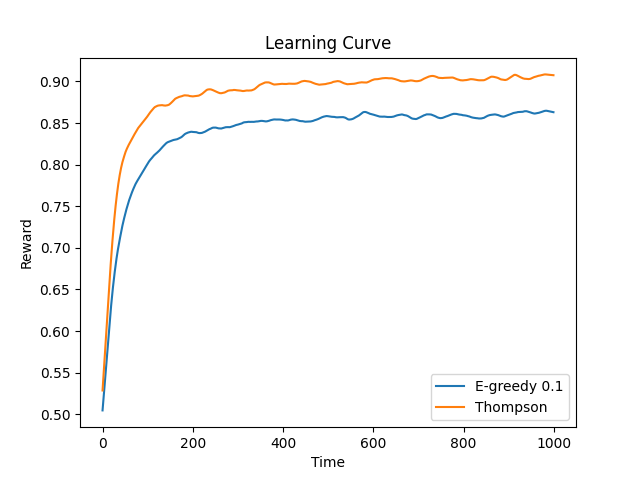
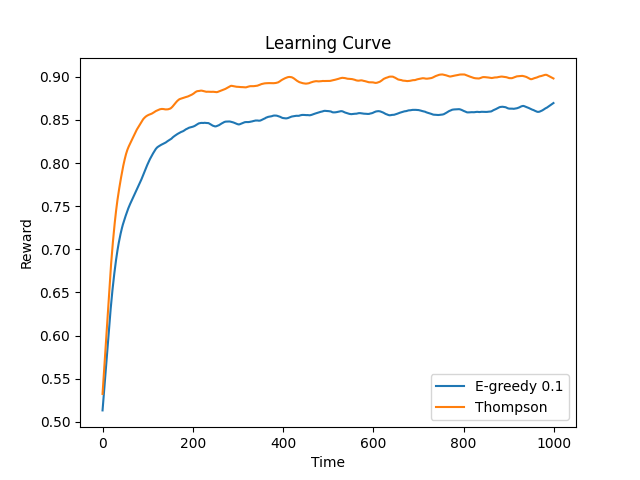
final changes

diff --git a/experiment.py b/experiment.py
@@ -7,7 +7,6 @@ from reinforcemen_learning_4.dynamic_env import DynamicMazeEnvironment
 from reinforcemen_learning_4.environment import ShortcutEnvironment,BanditEnvironment
 from Helper import smooth,LearningCurvePlot
 
-#https://medium.com/@aiblogtech/what-is-exploration-strategies-in-reinforcement-learning-32677239245e
 def run_repetitions_greedy(n_actions, n_timesteps, n_repetitions, smoothing_window, epsilon=0.1):
     rewards = np.zeros((n_repetitions, n_timesteps))
 
@@ -196,13 +195,11 @@ def plot_learning_curve(curves, labels, xlabel, ylabel, title, save_path):
 
 def experiment_boltzman():
     print('Sarsa normal environment single run 10000 episode')
-    #single_sarsa_dynamic = run_repetitions_sarsa_dynamic(2, 389)
     single_sarsa = run_repetitions_sarsa(10, 1000)
     avg_rewards_single = run_repetitions_boltzman(10, 1000)
-    #avg_rewards_single_dynamic = run_repetitions_boltzman_dynamic(2, 389)
     plot_learning_curve([single_sarsa,avg_rewards_single,],
                         ['E greedy exploration','Boltzman exploration',], 'Episodes',
-                        'Average Cumulative Reward', 'Learning Curve', 'sarsa_boltzman_10.png')
+                        'Average Cumulative Reward', 'Learning Curve', 'sarsa_boltzman.png')
     #plot_learning_curve([avg_rewards_single], ['Boltzman'], 'Episodes',
     #                    'Average Cumulative Reward', 'Learning Curve', 'boltzman.png')
 
@@ -211,21 +208,15 @@ def experiment_thompson():
     n_repetitions = 500
     n_timesteps = 1000
     smoothing_window = 31
-    # Assignment 1: e-greedy
-    epsilons = [0.1]  # 0.1 best
-    #avg_egreedy = []
-    rewards_egreedy = []
+    epsilons = [0.1]# best selected
     reward_plot = LearningCurvePlot(title="Egreedy Policy Curve")
     for epsilon in epsilons:
         smooth_rewards_greedy = run_repetitions_greedy(n_actions, n_timesteps, n_repetitions, smoothing_window, epsilon)
         smooth_rewards_thompson = run_repetitions_thompson(n_actions, n_timesteps, n_repetitions, smoothing_window, epsilon)
-        #reward_plot.add_curve(smooth_rewards, label=f' {epsilon}')
         plot_learning_curve([smooth_rewards_greedy, smooth_rewards_thompson], ['E-greedy 0.1', 'Thompson'], 'Time',
                             'Reward', 'Learning Curve', 'greedy_thompspn.png')
-        #avg_egreedy.append(np.mean(smooth_rewards, axis=0))
-        #rewards_egreedy.append(smooth_rewards)
 
-    reward_plot.save(name='thompso.png')
+    reward_plot.save(name='thompson.png')
 def experiment():
 
     experiment_boltzman()

diff --git a/environment.py b/environment.py
@@ -136,14 +136,20 @@ class ShortcutEnvironment(Environment):
 
         if not action in self.possible_actions():
             raise ValueError(f'Action ({action}) not in set of possible actions.')
-        if episode == 50:
+
+        if episode == 500:
             s = self.s
             s[9,4] = 'C'
             self.s = s
-        # after episode 500 environment updates.
-        if episode == 300:
+        if episode == 600:
             s = self.s
-            s[9,4] = 'X'
+            s[9,4] = 'C'
+            s[9, 5] = 'X'
+            self.s = s
+        if episode == 700:
+            s = self.s
+            s[9,5] = 'C'
+            s[9, 6] = 'X'
             self.s = s
 
         if action == 0:
